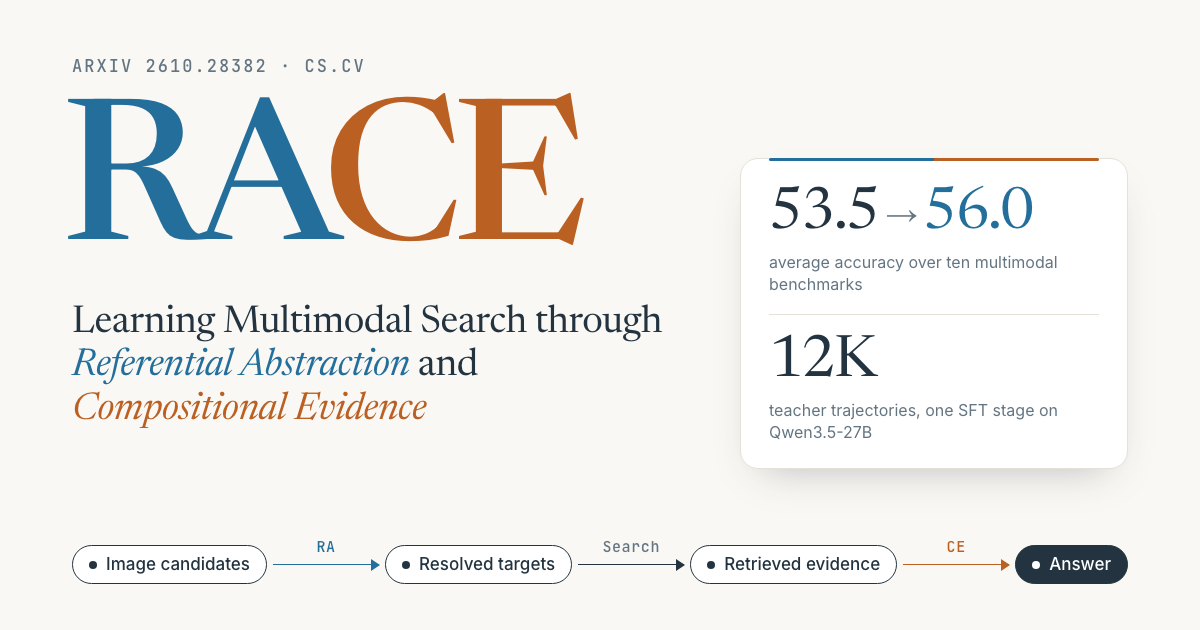
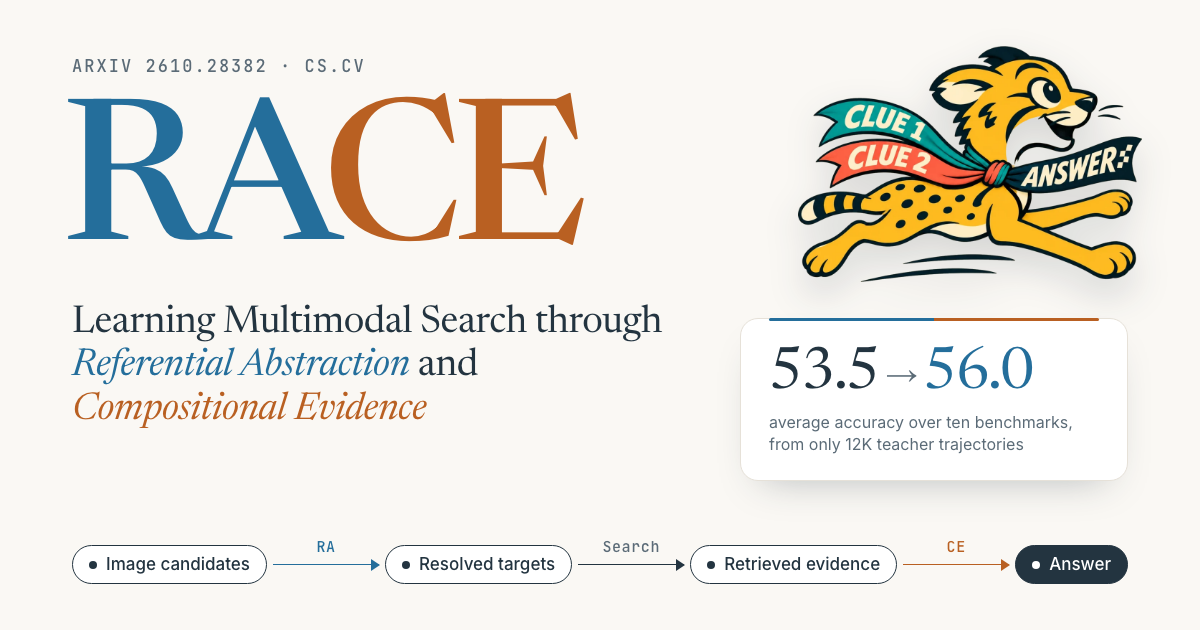
Add the RACE cheetah mascot to the project page
Hero lockup (wordmark plus mascot), round mascot badge in the top bar
and footer, mascot favicons and home-screen icon, and a new social
preview image with the mascot.

Changed region(s): [[0.6167, 0.0603, 0.9558, 0.7841]]

diff --git a/race/index.html b/race/index.html
@@ -40,9 +40,9 @@
   <meta name="citation_arxiv_id" content="2610.28382">
   <meta name="citation_pdf_url" content="https://arxiv.org/pdf/2610.28382">
 
-  <link rel="icon" href="favicon.svg" type="image/svg+xml">
+  <link rel="icon" href="assets/img/brand/favicon-32.png" type="image/png" sizes="32x32">
   <link rel="icon" href="assets/favicon.png" type="image/png" sizes="256x256">
-  <link rel="apple-touch-icon" href="assets/favicon.png">
+  <link rel="apple-touch-icon" href="assets/img/brand/apple-touch-icon.png">
 
   <link rel="stylesheet" href="css/fonts.css" media="print" id="font-css">
   <script>
@@ -104,7 +104,7 @@
 
   <header class="topbar">
     <div class="topbar__inner">
-      <a class="topbar__brand wordmark" href="#top" aria-label="RACE, back to top"><span class="wm-ra">RA</span><span class="wm-ce">CE</span></a>
+      <a class="topbar__brand wordmark" href="#top" aria-label="RACE, back to top"><img class="brand__avatar" src="assets/img/brand/race-avatar-64.png" width="32" height="32" alt=""><span class="wm-ra">RA</span><span class="wm-ce">CE</span></a>
       <button class="nav-toggle" type="button" aria-expanded="false" aria-controls="site-nav">
         <svg class="icon" aria-hidden="true"><use href="#i-menu"/></svg><span class="sr-only">Menu</span>
       </button>
@@ -127,7 +127,7 @@
         <div class="hero__id">
           <p class="hero__overline">arXiv 2610.28382 <span aria-hidden="true">·</span> cs.CV <span aria-hidden="true">·</span> 2026</p>
           <h1 id="title" class="hero__title">
-            <span class="wordmark wordmark--xl"><span class="wm-ra">RA</span><span class="wm-ce">CE</span></span><span class="sr-only">: </span>
+            <span class="hero__lockup"><span class="wordmark wordmark--xl"><span class="wm-ra">RA</span><span class="wm-ce">CE</span></span><img class="hero__mascot" src="assets/img/brand/race-mascot@1x.webp" srcset="assets/img/brand/race-mascot@1x.webp 1x, assets/img/brand/race-mascot@2x.webp 2x" width="480" height="329" alt="" fetchpriority="high" decoding="async"></span><span class="sr-only">: </span>
             <span class="hero__subtitle">Learning Multimodal Search through <span class="t-ra">Referential&nbsp;Abstraction</span> and <span class="t-ce">Compositional&nbsp;Evidence</span></span>
           </h1>
 
@@ -725,7 +725,7 @@
   <footer class="footer">
     <div class="container footer__inner">
       <div class="footer__id">
-        <span class="wordmark wordmark--sm"><span class="wm-ra">RA</span><span class="wm-ce">CE</span></span>
+        <span class="footer__brand"><img class="footer__avatar" src="assets/img/brand/race-avatar-64.png" width="44" height="44" alt="" loading="lazy" decoding="async"><span class="wordmark wordmark--sm"><span class="wm-ra">RA</span><span class="wm-ce">CE</span></span></span>
         <p>Learning Multimodal Search through Referential Abstraction and Compositional Evidence</p>
         <p class="footer__org">Huawei <span aria-hidden="true">·</span> Beijing Institute of Technology</p>
       </div>

diff --git a/race/css/theme.css b/race/css/theme.css
@@ -262,6 +262,22 @@
 }
 .footer__links a:hover { background: rgb(255 255 255 / .1); border-color: rgb(222 235 243 / .32); }
 
+/* ---------- Brand mascot ---------- */
+.topbar__brand { display: inline-flex; align-items: center; }
+.brand__avatar { width: 30px; height: 30px; margin-right: 9px; border-radius: 50%; box-shadow: 0 0 0 1px rgb(35 52 64 / .12), 0 3px 8px -3px rgb(24 38 47 / .35); }
+.hero__id { container-type: inline-size; }
+.hero__lockup { display: flex; align-items: center; gap: 2.5cqi; }
+.hero__lockup .wordmark--xl { flex: none; font-size: clamp(4rem, 22cqi, 10.5rem); }
+.hero__mascot {
+  flex: none; width: clamp(84px, 28cqi, 300px); height: auto; margin-top: -2cqi;
+  filter: drop-shadow(0 14px 16px rgb(24 38 47 / .14));
+  animation: mascot-in 1.1s var(--ease-out) .2s both;
+}
+@keyframes mascot-in { from { opacity: 0; transform: translateX(-22px) rotate(-4deg); } to { opacity: 1; transform: none; } }
+@media (prefers-reduced-motion: reduce) { .hero__mascot { animation: none; } }
+.footer__brand { display: inline-flex; align-items: center; gap: 12px; }
+.footer__avatar { width: 44px; height: 44px; border-radius: 50%; box-shadow: 0 0 0 2px rgb(255 255 255 / .14); }
+
 /* ---------- Small screens ---------- */
 @media (max-width: 640px) {
   .hero__overline { font-size: .64rem; padding: 6px 11px 6px 9px; }
